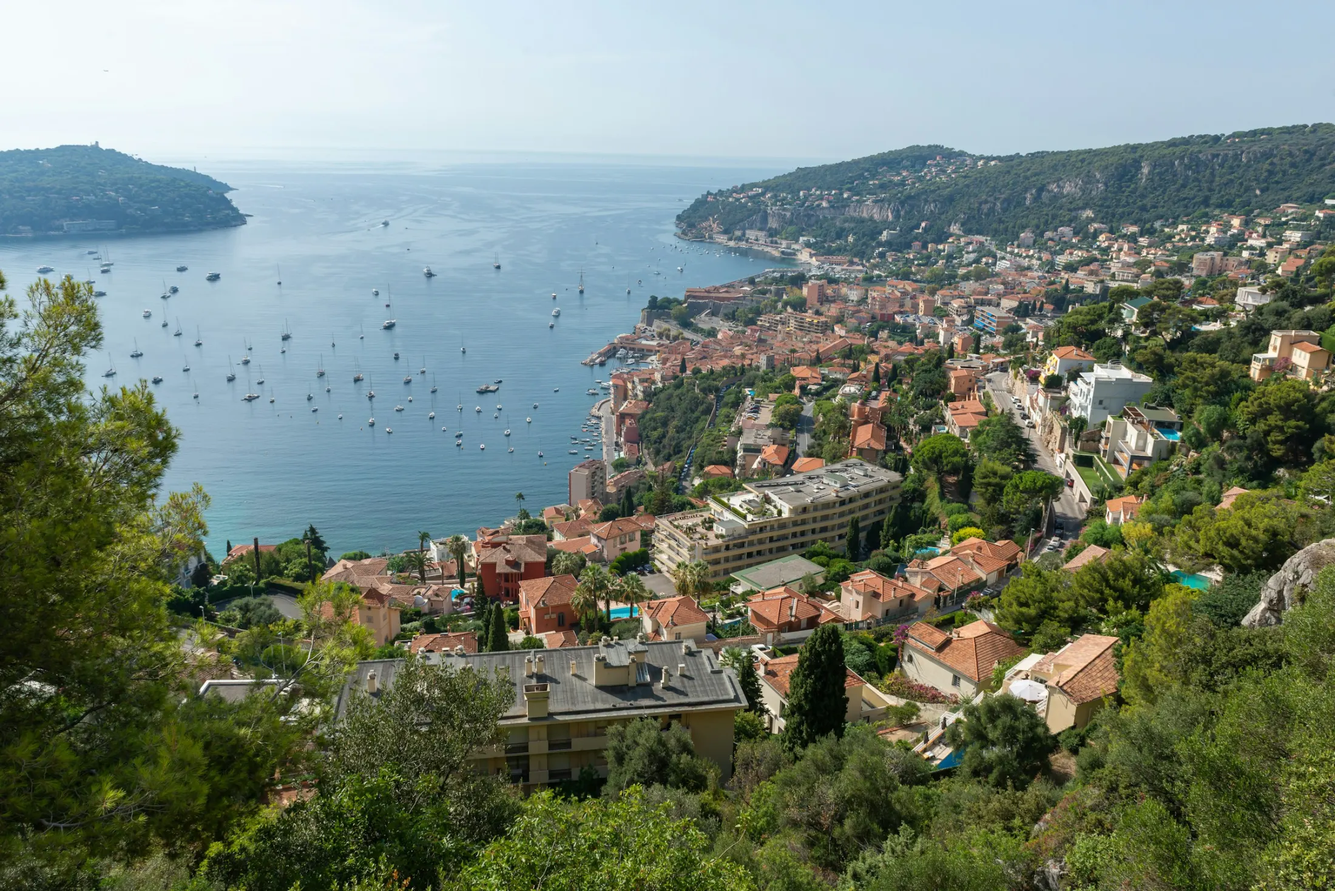
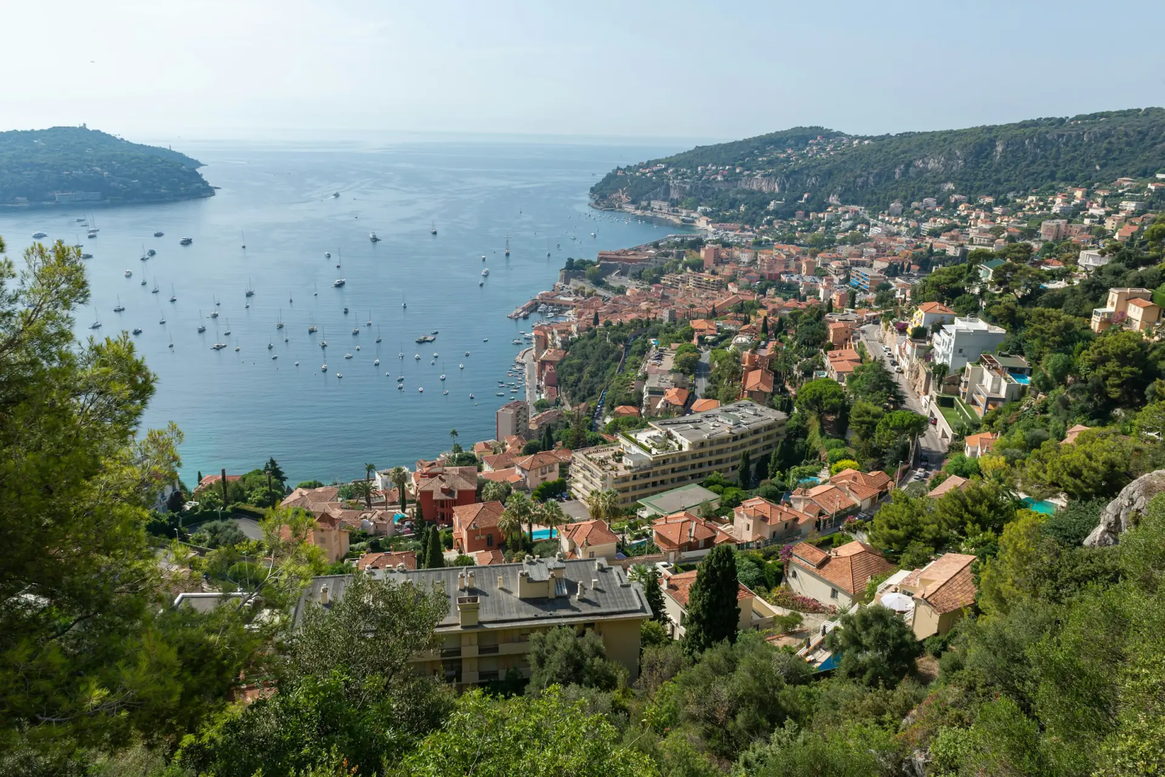
Faster hero: preload the photo and trim its weight
The hero photo is a CSS background, so the browser only found it after
the stylesheet loaded. Preload it from the home page head, the large
one for desktop and the small one for phones, so each device fetches
just its own. Re-encode both: 507 KB to 320 KB on desktop, 141 KB to
122 KB on phones, no visible change under the shading.

diff --git a/index.html b/index.html
@@ -20,6 +20,8 @@
 <link href="https://fonts.googleapis.com/css2?family=Fraunces:opsz,wght@9..144,400;9..144,500&family=Inter:wght@400;600&display=swap" rel="stylesheet">
 <link rel="stylesheet" href="/assets/styles.css">
 <link rel="preload" as="image" href="/assets/tim-cutout.webp" type="image/webp" fetchpriority="high">
+<link rel="preload" as="image" href="/assets/riviera.webp" type="image/webp" media="(min-width: 901px)" fetchpriority="high">
+<link rel="preload" as="image" href="/assets/riviera-sm.webp" type="image/webp" media="(max-width: 900px)" fetchpriority="high">
 <script type="application/ld+json">{"@context": "https://schema.org", "@type": "Person", "name": "Tim Yates", "jobTitle": "Financial adviser", "worksFor": {"@type": "Organization", "name": "The Spectrum IFA Group", "url": "https://spectrum-ifa.com/"}, "email": "tim.yates@spectrum-ifa.com", "telephone": "+33615336083", "address": {"@type": "PostalAddress", "streetAddress": "Mediathel, 120 Route des Macarons", "postalCode": "06560", "addressLocality": "Valbonne", "addressCountry": "FR"}, "alumniOf": "University of Liverpool"}</script>
 </head>
 <body class="dark-top">

diff --git a/tools/build.py b/tools/build.py
@@ -81,7 +81,10 @@ FOOTER = f"""<footer class="site-footer">
 def page(path, title, description, body, current, extra_head="", body_class=""):
     canonical = f'<link rel="canonical" href="{SITE}{path}">' if SITE else ""
     og_url = f'<meta property="og:url" content="{SITE}{path}">' if SITE else ""
-    preload = '<link rel="preload" as="image" href="/assets/tim-cutout.webp" type="image/webp" fetchpriority="high">' if path == "/" else ""
+    # The hero photo is a CSS background, so preload it or it waits for the stylesheet
+    preload = ('<link rel="preload" as="image" href="/assets/tim-cutout.webp" type="image/webp" fetchpriority="high">\n'
+               '<link rel="preload" as="image" href="/assets/riviera.webp" type="image/webp" media="(min-width: 901px)" fetchpriority="high">\n'
+               '<link rel="preload" as="image" href="/assets/riviera-sm.webp" type="image/webp" media="(max-width: 900px)" fetchpriority="high">') if path == "/" else ""
     out = f"""<!doctype html>
 <html lang="en-GB">
 <head>
